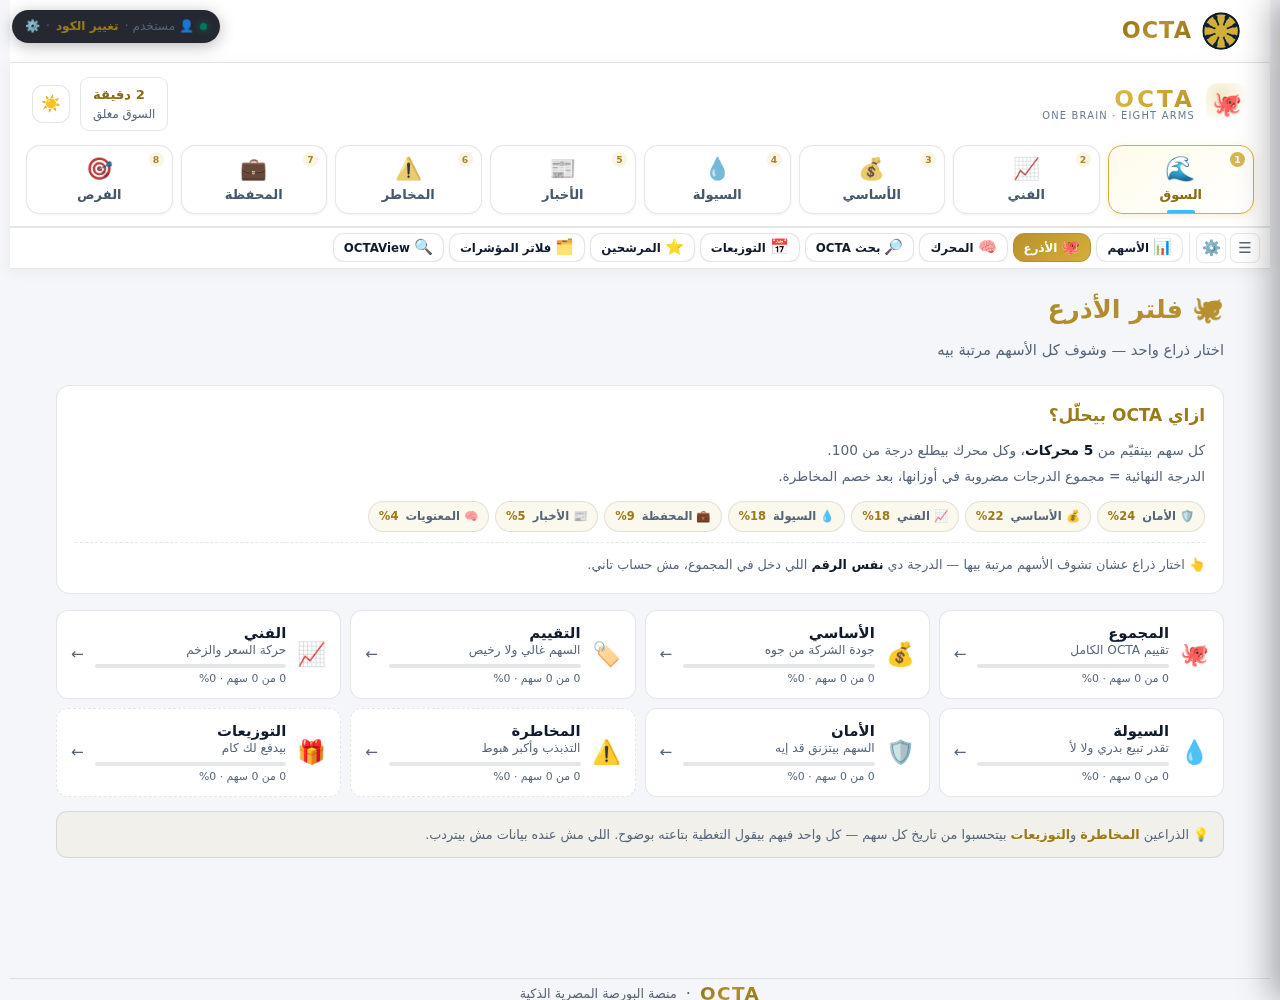
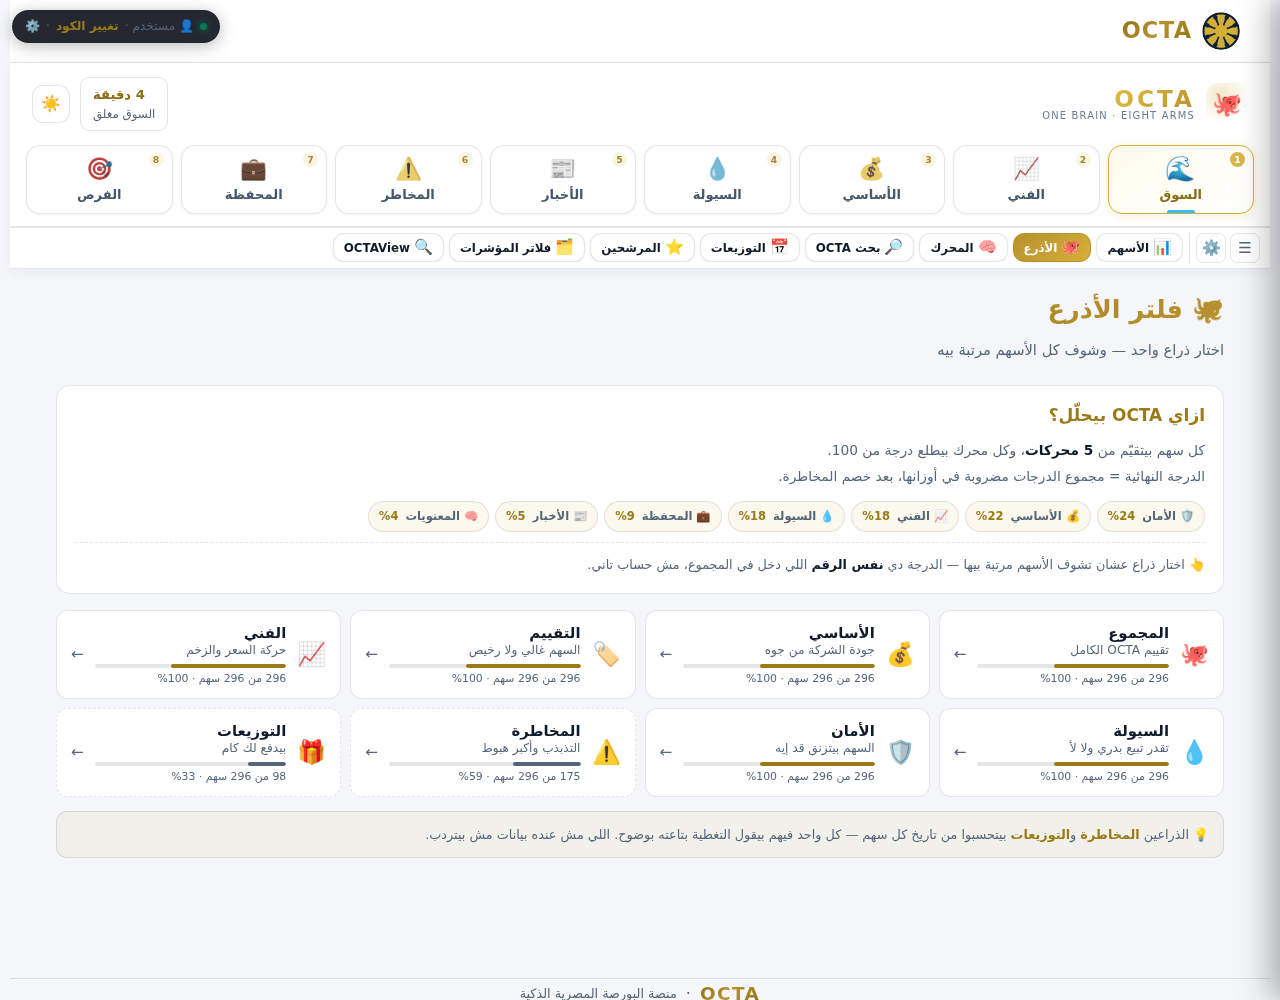
fix(arms): mark axis readings above 100 instead of hiding them
20 of 1480 axis readings exceed 100 — five on Fundamental, one on
Valuation, fourteen on Technical. The final total stays within 100
because the risk and confidence penalties pull it down, but the arm
page claimed every axis tops out at 100 and then displayed 110.

The page now states the scale accurately, flags each reading past 100,
and explains where the ceiling actually comes from. Clamping would
have made the number tidier and the discrepancy invisible.

diff --git a/index.html b/index.html
@@ -7,7 +7,7 @@
   <script id="octa-cache-clear">
   /* 🧹 مسح كاش التطبيق — يخلي أي تعديل جديد يوصل فوراً */
   (function () {
-    var BUILD = 'v=2026106186';
+    var BUILD = 'v=2026106104';
     var KEY = 'octa_build_v1';
     try {
       var prev = localStorage.getItem(KEY);
@@ -34,11 +34,11 @@
   <link rel="icon" type="image/png" href="assets/octa-logo.png">
   <!-- CSS → assets/octa.css -->
 <!-- tokens أولاً — كل الألوان هنا -->
-<link rel="stylesheet" href="assets/octa-tokens.css?v=2026106186">
-<link rel="stylesheet" href="assets/octa.css?v=2026106186">
-  <link rel="stylesheet" href="assets/css-decide.css?v=2026106186">
-  <link rel="stylesheet" href="assets/css-screener.css?v=2026106186">
-  <link rel="stylesheet" href="assets/css-chart.css?v=2026106186">
+<link rel="stylesheet" href="assets/octa-tokens.css?v=2026106104">
+<link rel="stylesheet" href="assets/octa.css?v=2026106104">
+  <link rel="stylesheet" href="assets/css-decide.css?v=2026106104">
+  <link rel="stylesheet" href="assets/css-screener.css?v=2026106104">
+  <link rel="stylesheet" href="assets/css-chart.css?v=2026106104">
 </head>
 <body>
 
@@ -1035,24 +1035,24 @@
     </div>
   </div>
 
-<script src="assets/js/octa-api.js?v=2026106186"></script>
-<script src="assets/js/octa-config.js?v=2026106186"></script>
-<script src="assets/js/octa-core.js?v=2026106186"></script>
-<script src="assets/js/octa-stats.js?v=2026106186"></script>
-<script src="assets/js/octa-auth.js?v=2026106186"></script>
-<script src="assets/js/octa-gate.js?v=2026106186"></script>
-<script src="assets/js/octa-sidebar.js?v=2026106186"></script>
-<script src="assets/js/octa-dev.js?v=2026106186"></script>
-<script src="assets/js/octa-clock.js?v=2026106186"></script>
-<script src="assets/js/octa-screener.js?v=2026106186"></script>
-<script src="assets/js/octa-chart.js?v=2026106186"></script>
-<script src="assets/js/octa-pages.js?v=2026106186"></script>
-<script src="assets/js/octa-app.js?v=2026106186"></script>
-<script src="assets/js/octa-filters.js?v=2026106186"></script>
-<script src="assets/js/octa-watch.js?v=2026106186"></script>
-<script src="assets/js/octa-decide.js?v=2026106186"></script>
-<script src="assets/js/octa-settings.js?v=2026106186"></script>
-<script src="assets/js/octa-armsfilter.js?v=2026106186"></script>
+<script src="assets/js/octa-api.js?v=2026106104"></script>
+<script src="assets/js/octa-config.js?v=2026106104"></script>
+<script src="assets/js/octa-core.js?v=2026106104"></script>
+<script src="assets/js/octa-stats.js?v=2026106104"></script>
+<script src="assets/js/octa-auth.js?v=2026106104"></script>
+<script src="assets/js/octa-gate.js?v=2026106104"></script>
+<script src="assets/js/octa-sidebar.js?v=2026106104"></script>
+<script src="assets/js/octa-dev.js?v=2026106104"></script>
+<script src="assets/js/octa-clock.js?v=2026106104"></script>
+<script src="assets/js/octa-screener.js?v=2026106104"></script>
+<script src="assets/js/octa-chart.js?v=2026106104"></script>
+<script src="assets/js/octa-pages.js?v=2026106104"></script>
+<script src="assets/js/octa-app.js?v=2026106104"></script>
+<script src="assets/js/octa-filters.js?v=2026106104"></script>
+<script src="assets/js/octa-watch.js?v=2026106104"></script>
+<script src="assets/js/octa-decide.js?v=2026106104"></script>
+<script src="assets/js/octa-settings.js?v=2026106104"></script>
+<script src="assets/js/octa-armsfilter.js?v=2026106104"></script>
 <!-- 🛠 أدوات المطوّر — بتظهر بالمصادفة ولا ما فيش زرار عادي -->
 <div class="octa-devbar">
   <button class="dev-hidden-gate" onclick="OCTADev.toggle()"

diff --git a/assets/js/octa-armsfilter.js b/assets/js/octa-armsfilter.js
@@ -166,7 +166,7 @@
 
     h += '<div class="af-intro">';
     h += '<div class="af-i-q">ازاي OCTA بيحلّل؟</div>';
-    h += '<div class="af-i-a">كل سهم بيتقيّم من <b>5 محركات</b>، وكل محرك بيطلع درجة من 100.</div>';
+    h += '<div class="af-i-a">كل سهم بيتقيّم من <b>5 محركات</b>، وكل محرك بيطلع درجة من 100 — وفيه حالات بتعدّاه قبل الخصومات.</div>';
     h += '<div class="af-i-a">الدرجة النهائية = مجموع الدرجات مضروبة في أوزانها، بعد خصم المخاطرة.</div>';
     h += '<div class="af-i-w">' +
       '<span>🛡 الأمان <b>24%</b></span><span>💰 الأساسي <b>22%</b></span>' +
@@ -243,7 +243,8 @@
         '<td class="af-i">' + (i + 1) + '</td>' +
         '<td><b>' + s.code + '</b><span class="af-nm">' + (s.name || '') + '</span></td>' +
         '<td class="af-sc">' + (s.sectorAr || s.sector || '—') + '</td>' +
-        '<td><b class="af-v' + (av >= 70 ? ' hi' : av >= 50 ? ' mid' : ' lo') + '">' + Math.round(av) + '</b></td>' +
+        '<td><b class="af-v' + (av >= 70 ? ' hi' : av >= 50 ? ' mid' : ' lo') + '">' + Math.round(av) +
+        (av > 100 ? '<i class="af-over" title="الدرجة دي عدّت 100 قبل خصم المخاطرة">↑</i>' : '') + '</b></td>' +
         '<td class="af-tot">' + Math.round(tv) + '</td>' +
         '<td class="af-d' + (d > 0 ? ' up' : d < 0 ? ' dn' : '') + '">' + (d > 0 ? '+' : '') + d + '</td>' +
         '<td class="af-n">' + (s.price || 0).toFixed(2) + '</td>' +
@@ -254,6 +255,7 @@
     h += '</tbody></table>';
     if (shown.length > 120) h += '<div class="af-more">📊 بيعرض أول 120 من ' + shown.length + ' سهم — ضيّق الفلتر عشان تشوف الباقي</div>';
     h += '</div>';
+    h += '<div class="af-legend"><b>↑</b> = الدرجة عدّت 100. ده بيحصل في <b>20 حالة</b> من 1480 قراءة — المحرك بيطلع أعلى من 100 قبل ما خصم المخاطرة والثقة يوصّل المجموع لـ 100. مش خطأ في الفلتر، و<b>المجموع النهائي مابعديش 100</b>.</div>';
     h += '<div class="af-legend"><b>الفرق</b> = درجة ' + arm.n + ' ناقص درجة المجموع. كل ما الرقم أعلى، السهم ده قوي في الذراع ده بس ضعيف في الباقي.</div>';
 
     document.getElementById('armsList').innerHTML = h;

diff --git a/assets/octa.css b/assets/octa.css
@@ -5580,3 +5580,7 @@ body.set-notab { font-variant-numeric: normal; }
   .af-t { font-size: .75rem; }
   .af-t th, .af-t td { padding: 8px 9px; }
 }
+.af-over {
+  font-style: normal; font-size: .68rem; margin-inline-start: 3px;
+  color: var(--gold); vertical-align: super;
+}
